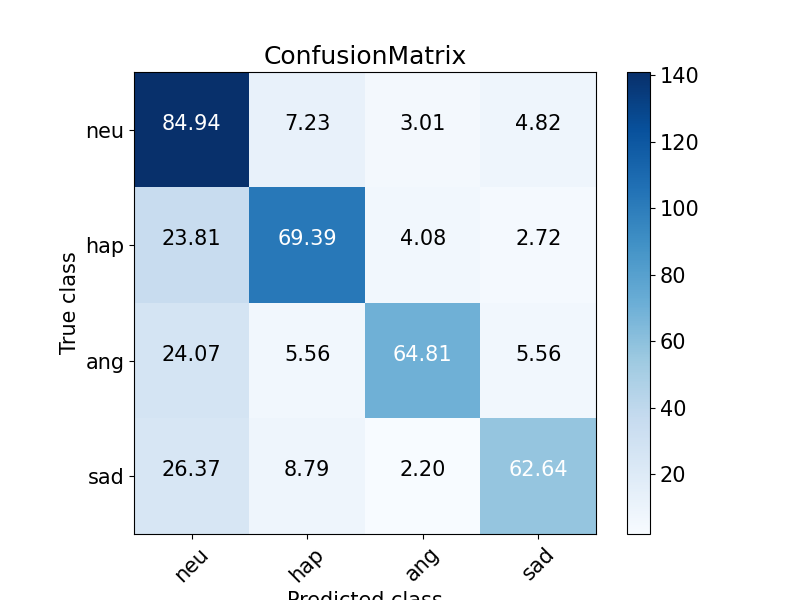
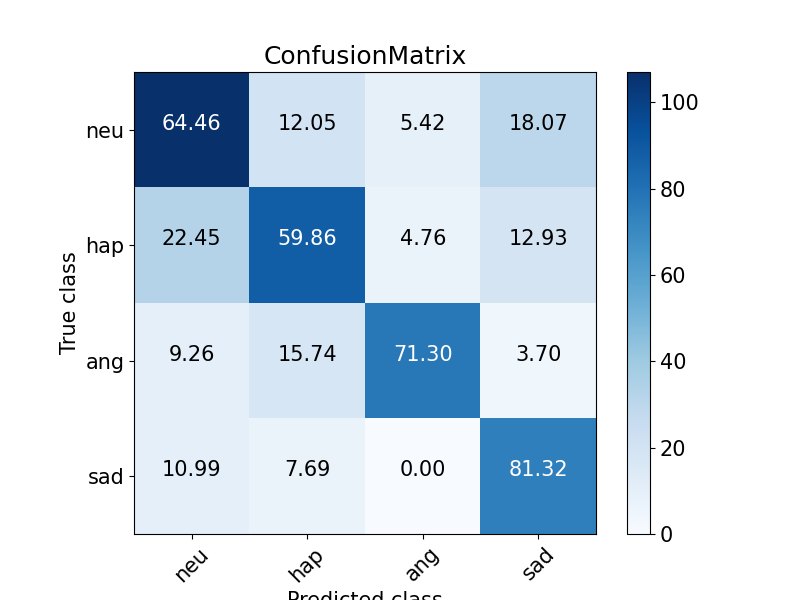
analysis modification

diff --git a/recipes/IEMOCAP/emotion_recognition/computeWAUA.py b/recipes/IEMOCAP/emotion_recognition/computeWAUA.py
@@ -6,7 +6,7 @@ import speechbrain as sb
 from hyperpyyaml import load_hyperpyyaml
 
 
-def result(save_folder, output_folder):
+def result(save_folder, output_folder, plot_confusion=True):
     result = {}
     LABELS = []
     with open(save_folder+'/label_encoder.txt', 'r') as f:
@@ -16,10 +16,11 @@ def result(save_folder, output_folder):
             if str(i)==line[9] and 'start' not in line:
                 result[i] = line[:5]
     for i in range(4):
-        LABELS.append(result[i])
+        LABELS.append(eval(result[i]))
     print(LABELS) 
    
     path = output_folder + '/predictions.csv'
+    #path = '/data2/home/zhangyue/speechbrain/recipes/IEMOCAP/emotion_recognition/results/ECAPA-TDNN_LSTM/1969/save/goodModel_0.69/predictions.csv'
     with open(path, newline="") as csvfile:
         pred = []
         label = []
@@ -42,15 +43,15 @@ def result(save_folder, output_folder):
         f.write('WA:{}, UA:{}'.format(res[0], res[1])+'\n')
     
     print('WA:{}, UA:{}'.format(res[0], res[1]))
-
-    plot_confusion_matrix(test_cm, save_path=output_folder, normalize=True,
+    if plot_confusion:
+        plot_confusion_matrix(test_cm, save_path=output_folder, normalize=True,
                                         target_names=LABELS, color_bar=True, title="ConfusionMatrix")
 
 if __name__ == "__main__":
 
-    hparams_file = 'hparams/train_MyCNN.yaml'
+    hparams_file = 'hparams/train_ECAPA_LSTM.yaml'
     
     with open(hparams_file) as fin:
         hparams = load_hyperpyyaml(fin, '')
 
-    result(hparams["save_folder"], hparams["output_folder"])
+    result(hparams["save_folder"], hparams["output_folder"], plot_confusion=True)

diff --git a/recipes/IEMOCAP/multimodal/fuse.py b/recipes/IEMOCAP/multimodal/fuse.py
@@ -3,7 +3,7 @@ import csv
 
 
 NLP_Path = '/data2/home/zhangyue/nlp/result/Bert/1969/nlp_predictions.csv'
-Speech_CRNN_Path = '/data2/home/zhangyue/speechbrain/recipes/IEMOCAP/emotion_recognition/results/CRNN/1969/predictions.csv'
+Speech_CRNN_Path = '/data2/home/zhangyue/speechbrain/recipes/IEMOCAP/emotion_recognition/results/ECAPA-TDNN_LSTM/1969/predictions.csv'
 Speech_CRNN_Augment_Path = '/data2/home/zhangyue/speechbrain/recipes/IEMOCAP/emotion_recognition/results/CRNN_augment/1969/predictions.csv'
 
 # id,prediction,true_value,outputs0,outputs1,outputs2,outputs3
@@ -94,10 +94,10 @@ if __name__ == "__main__":
     for i in range(0,11):
         w1 = 0 if i==0 else i/10
         w2 = round(1-w1,1)
-        true_values, predictions = weight_fuse(w1, w2, speech_dic=speech_CRNN_Augment_dic)
-        WA, UA = result(true_values, predictions, output_folder='./output_folder', title=None)
+        true_values, predictions = weight_fuse(w1, w2, speech_dic=speech_CRNN_dic)
+        WA, UA = result(true_values, predictions, output_folder='./output_folder', title)
         true_values, predictions = weight_fuse(w1, 1-w1)
-        WA, UA = round(WA, 2), round(UA, 2) 
+        WA, UA = round(WA, 4), round(UA, 4) 
         print("{}*speech + {}*nlp : WA:{}, UA:{}".format(w1, w2, WA, UA))
         fp.write("{}*speech + {}*nlp : WA:{}, UA:{}\n".format(w1, w2, WA, UA))
     fp.close()

diff --git a/recipes/IEMOCAP/emotion_recognition/moveModels2.py b/recipes/IEMOCAP/emotion_recognition/moveModels2.py
@@ -1,0 +1,11 @@
+import os
+import shutil
+
+dir = '/data2/home/zhangyue/speechbrain/recipes/IEMOCAP/emotion_recognition/results/ECAPA-TDNN/1969/save/'
+
+if os.path.exists(dir):
+    if not os.path.exists(dir+'models'):
+        os.makedirs(dir+'models')
+    for file in os.listdir(dir):
+        if 'CKPT' in file:
+            shutil.move(dir+file, dir+'models')

diff --git a/recipes/IEMOCAP/emotion_recognition/analysis.py b/recipes/IEMOCAP/emotion_recognition/analysis.py
@@ -97,11 +97,10 @@ def precision_recall(cm):
     precision = TP / (TP+FP)  # 查准率
 
     recall = TP / (TP+FN)  # 查全率
-
-    WA = precision.sum()/4
-
+    cm1 = cm.astype('float') / cm.sum(axis=1)[:, np.newaxis]
+    WA = (np.diag(cm1)).sum()/4
+    #WA = precision.sum()/4
     UA = TP.sum()/(cm.sum(axis=0)).sum()
-
     return WA, UA
 
 

diff --git a/recipes/IEMOCAP/multimodal/analysis.py b/recipes/IEMOCAP/multimodal/analysis.py
@@ -99,7 +99,9 @@ def precision_recall(cm):
 
     recall = TP / (TP+FN)  # 查全率
 
-    WA = precision.sum()/4
+    cm1 = cm.astype('float') / cm.sum(axis=1)[:, np.newaxis]
+    WA = (np.diag(cm1)).sum()/4
+    #WA = precision.sum()/4
 
     UA = TP.sum()/(cm.sum(axis=0)).sum()
 

diff --git a/recipes/IEMOCAP/emotion_recognition/train.py b/recipes/IEMOCAP/emotion_recognition/train.py
@@ -372,4 +372,4 @@ if __name__ == "__main__":
     )
 
     from computeWAUA import result
-    result(hparams["save_folder"], hparams["output_folder"])
+    result(hparams["save_folder"], hparams["output_folder"], plot_confusion=False)
